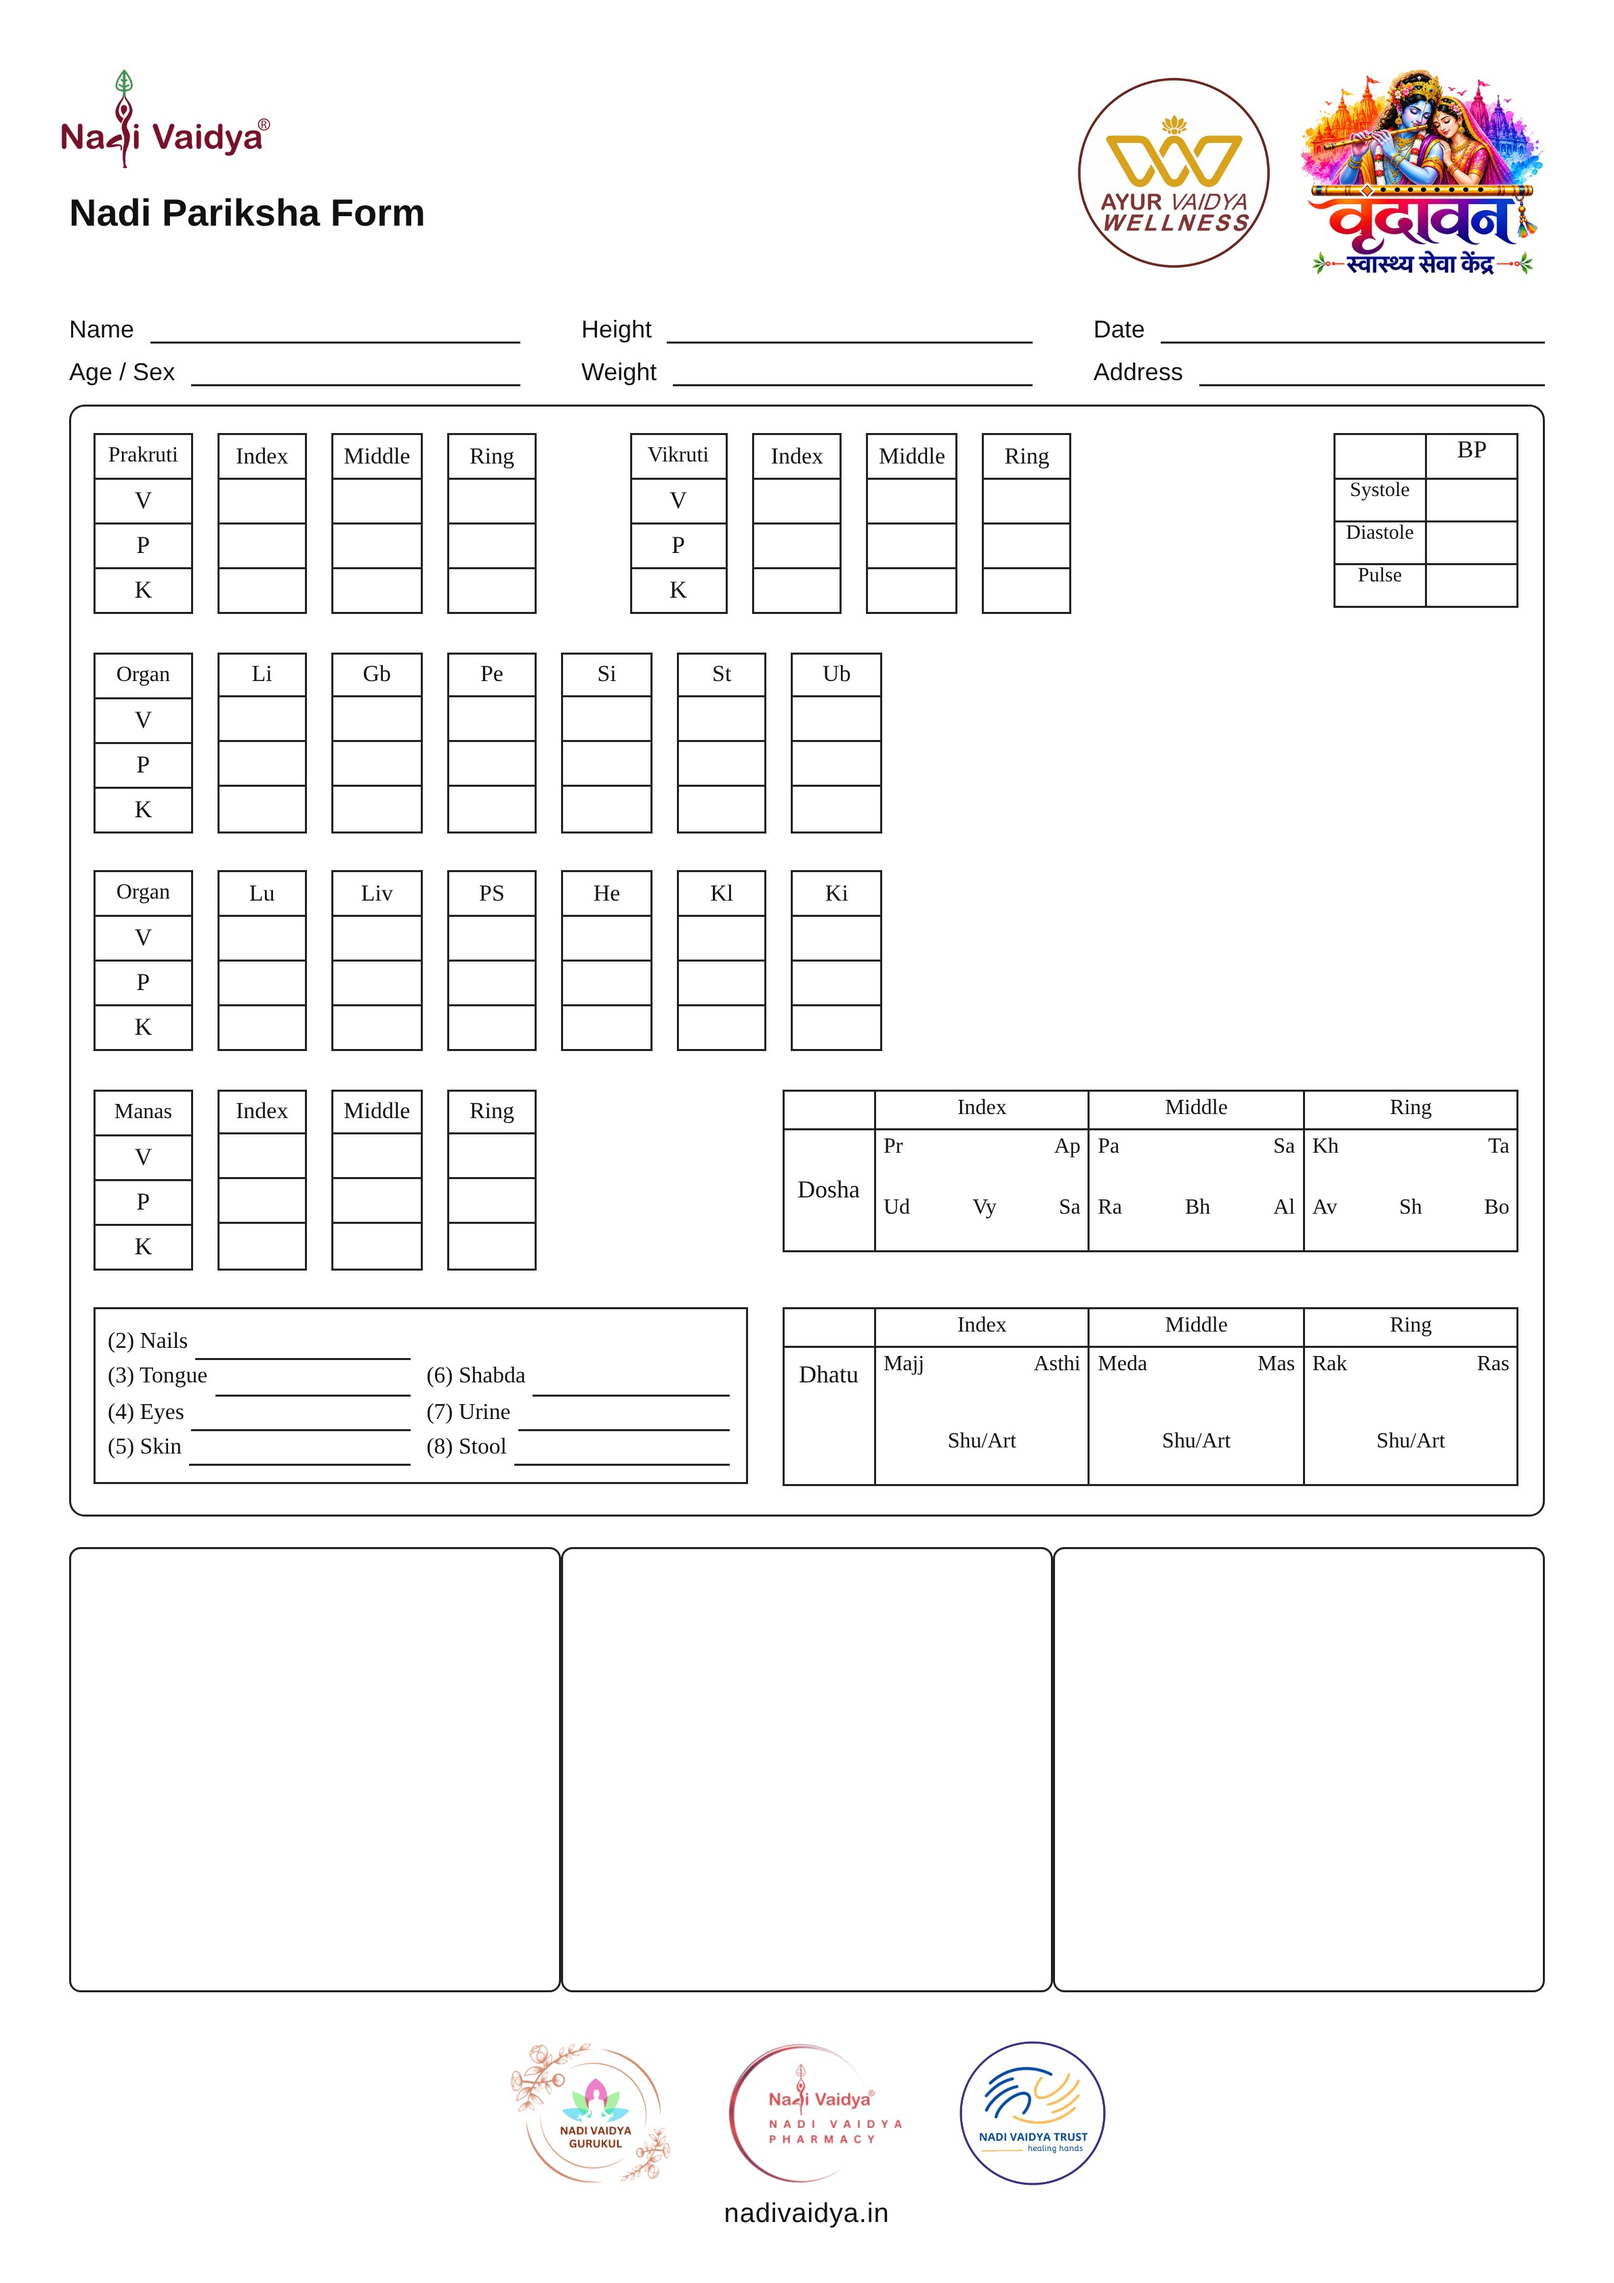
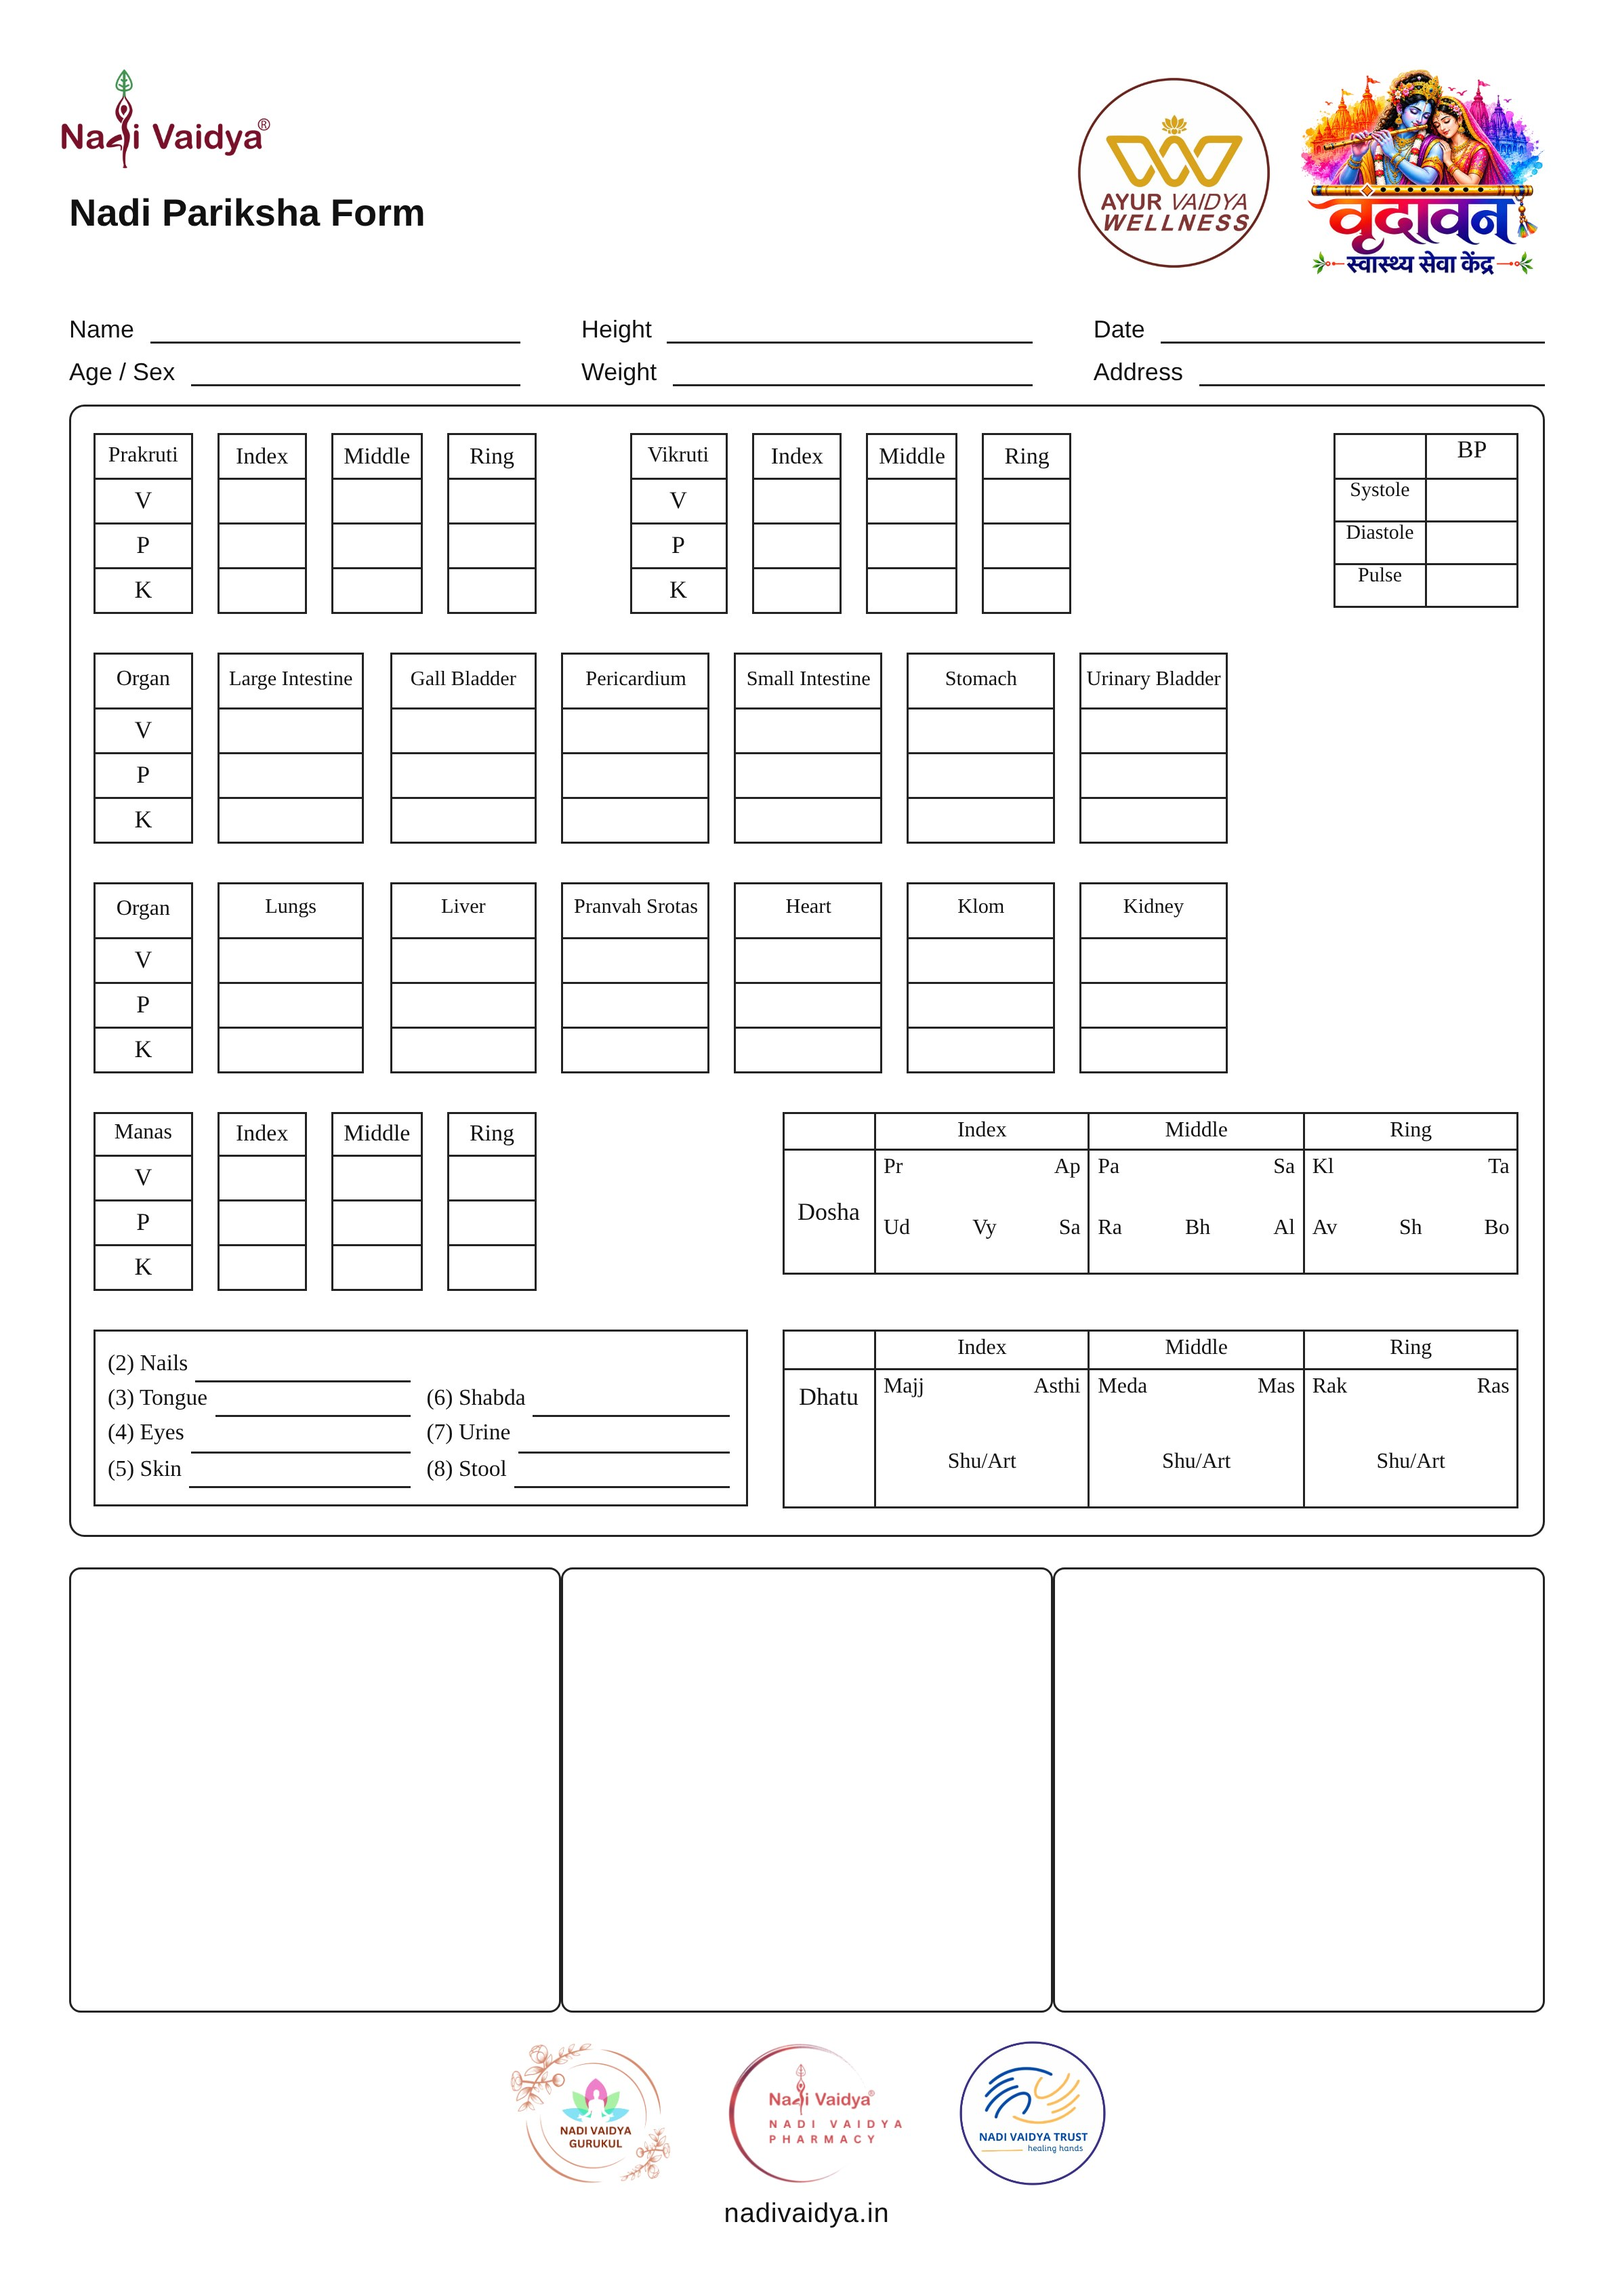
Nadi Pariksha form: full organ names (Large Intestine … Kidney) and Kh → Kl in Dosha
Claude-Session: https://claude.ai/code/session_01BLAFPTXhjRoQfXaUvU6rvF

diff --git a/docs/forms/nadi-pariksha-form-src/form.html b/docs/forms/nadi-pariksha-form-src/form.html
@@ -38,6 +38,8 @@ td{border:.3mm solid #222;font-size:8pt;text-align:center;vertical-align:top}
 .foot .logos{display:flex;justify-content:center;align-items:center;gap:7mm}
 .foot img{height:19mm;display:block}
 .foot .t{font-size:10pt;margin-top:1.5mm;letter-spacing:.02em}
+.col.org{width:19mm}.col.org td{width:19mm}.col.org td.h{font-size:7.6pt;line-height:1.05;height:7.2mm;padding:0 .6mm;vertical-align:middle}
+#g3 .lab td.n,#g4 .lab td.n{height:7.2mm}
 </style></head><body><div class="page">
 
 <div class="head">
@@ -87,7 +89,7 @@ td{border:.3mm solid #222;font-size:8pt;text-align:center;vertical-align:top}
    <tr><td class="lbl" style="vertical-align:middle">Dosha</td>
     <td style="height:16mm;text-align:left;position:relative"><div style="display:flex;justify-content:space-between">Pr<span>Ap</span></div><div style="display:flex;justify-content:space-between;margin-top:5mm">Ud<span>Vy</span><span>Sa</span></div></td>
     <td style="text-align:left"><div style="display:flex;justify-content:space-between">Pa<span>Sa</span></div><div style="display:flex;justify-content:space-between;margin-top:5mm">Ra<span>Bh</span><span>Al</span></div></td>
-    <td style="text-align:left"><div style="display:flex;justify-content:space-between">Kh<span>Ta</span></div><div style="display:flex;justify-content:space-between;margin-top:5mm">Av<span>Sh</span><span>Bo</span></div></td>
+    <td style="text-align:left"><div style="display:flex;justify-content:space-between">Kl<span>Ta</span></div><div style="display:flex;justify-content:space-between;margin-top:5mm">Av<span>Sh</span><span>Bo</span></div></td>
    </tr>
   </table>
  </div>
@@ -123,10 +125,10 @@ td{border:.3mm solid #222;font-size:8pt;text-align:center;vertical-align:top}
 function gati(id,num,cols){
   const el=document.getElementById(id);
   let h='<table class="lab"><tr><td class="n">Organ</td></tr><tr><td class="v">V</td></tr><tr><td class="v">P</td></tr><tr><td class="v">K</td></tr></table>';
-  for(const c of cols) h+='<table class="col"><tr><td class="h">'+c+'</td></tr><tr><td></td></tr><tr><td></td></tr><tr><td></td></tr></table>';
+  for(const c of cols) h+='<table class="col org"><tr><td class="h">'+c+'</td></tr><tr><td></td></tr><tr><td></td></tr><tr><td></td></tr></table>';
   el.innerHTML=h;
 }
-gati('g3','3',['Li','Gb','Pe','Si','St','Ub']);
-gati('g4','4',['Lu','Liv','PS','He','Kl','Ki']);
+gati('g3','3',['Large Intestine','Gall Bladder','Pericardium','Small Intestine','Stomach','Urinary Bladder']);
+gati('g4','4',['Lungs','Liver','Pranvah Srotas','Heart','Klom','Kidney']);
 </script>
 </body></html>
